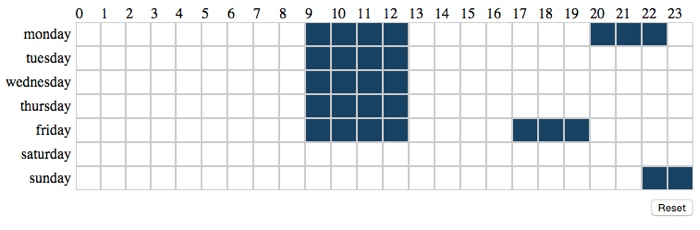
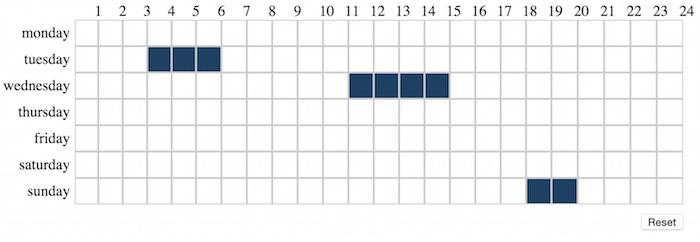
last hour column label

Changed region(s): [[0.0, 0.0, 0.99, 0.9739]]

diff --git a/dist/angular-dayparts.js b/dist/angular-dayparts.js
@@ -12,7 +12,7 @@ angular.module('angular-dayparts', [])
             $scope.options.reset = ($scope.options.reset === undefined) ? true : $scope.options.reset;
 
             $scope.days = [{name: 'monday', position: 1}, {name: 'tuesday', position: 2}, {name: 'wednesday', position: 3}, {name: 'thursday', position: 4}, {name: 'friday', position: 5}, {name: 'saturday', position: 6}, {name: 'sunday', position: 7}];
-            $scope.hours = [0, 1, 2, 3, 4, 5, 6, 7, 8, 9, 10, 11, 12, 13, 14, 15, 16, 17, 18, 19, 20, 21, 22, 23];
+            $scope.hours = [0, 1, 2, 3, 4, 5, 6, 7, 8, 9, 10, 11, 12, 13, 14, 15, 16, 17, 18, 19, 20, 21, 22, 23, 24];
 
             var klass = 'selected';
             var startCell = null;

diff --git a/src/angular-dayparts.js b/src/angular-dayparts.js
@@ -12,7 +12,7 @@ angular.module('angular-dayparts', [])
             $scope.options.reset = ($scope.options.reset === undefined) ? true : $scope.options.reset;
 
             $scope.days = [{name: 'monday', position: 1}, {name: 'tuesday', position: 2}, {name: 'wednesday', position: 3}, {name: 'thursday', position: 4}, {name: 'friday', position: 5}, {name: 'saturday', position: 6}, {name: 'sunday', position: 7}];
-            $scope.hours = [0, 1, 2, 3, 4, 5, 6, 7, 8, 9, 10, 11, 12, 13, 14, 15, 16, 17, 18, 19, 20, 21, 22, 23];
+            $scope.hours = [0, 1, 2, 3, 4, 5, 6, 7, 8, 9, 10, 11, 12, 13, 14, 15, 16, 17, 18, 19, 20, 21, 22, 23, 24];
 
             var klass = 'selected';
             var startCell = null;

diff --git a/demo/index.html b/demo/index.html
@@ -6,7 +6,7 @@
     <script src="https://cdnjs.cloudflare.com/ajax/libs/jquery/1.11.0/jquery.js"></script>
     <script src="https://cdnjs.cloudflare.com/ajax/libs/underscore.js/1.8.3/underscore.js"></script>
     <script src="https://cdnjs.cloudflare.com/ajax/libs/angular.js/1.3.15/angular.js"></script>
-    <script src="../dist/angular-dayparts.js"></script>
+    <script src="../src/angular-dayparts.js"></script>
     <script>
     angular.module('app', ['angular-dayparts']).controller('main', function($scope){
         $scope.options = {

diff --git a/dist/style.css b/dist/style.css
@@ -37,6 +37,9 @@
     padding-right: 5px;
 }
 
+.dayparts tr td:last-child {
+    border: 0;
+}
 
 .dayparts .selected {
     background: #1e4163;
@@ -47,6 +50,7 @@
     margin-top: 10px;
     float: right;
     cursor: pointer;
+    margin-right: 25px;
 }
 
 .dayparts a {

diff --git a/src/style.css b/src/style.css
@@ -37,6 +37,9 @@
     padding-right: 5px;
 }
 
+.dayparts tr td:last-child {
+    border: 0;
+}
 
 .dayparts .selected {
     background: #1e4163;
@@ -47,6 +50,7 @@
     margin-top: 10px;
     float: right;
     cursor: pointer;
+    margin-right: 25px;
 }
 
 .dayparts a {
